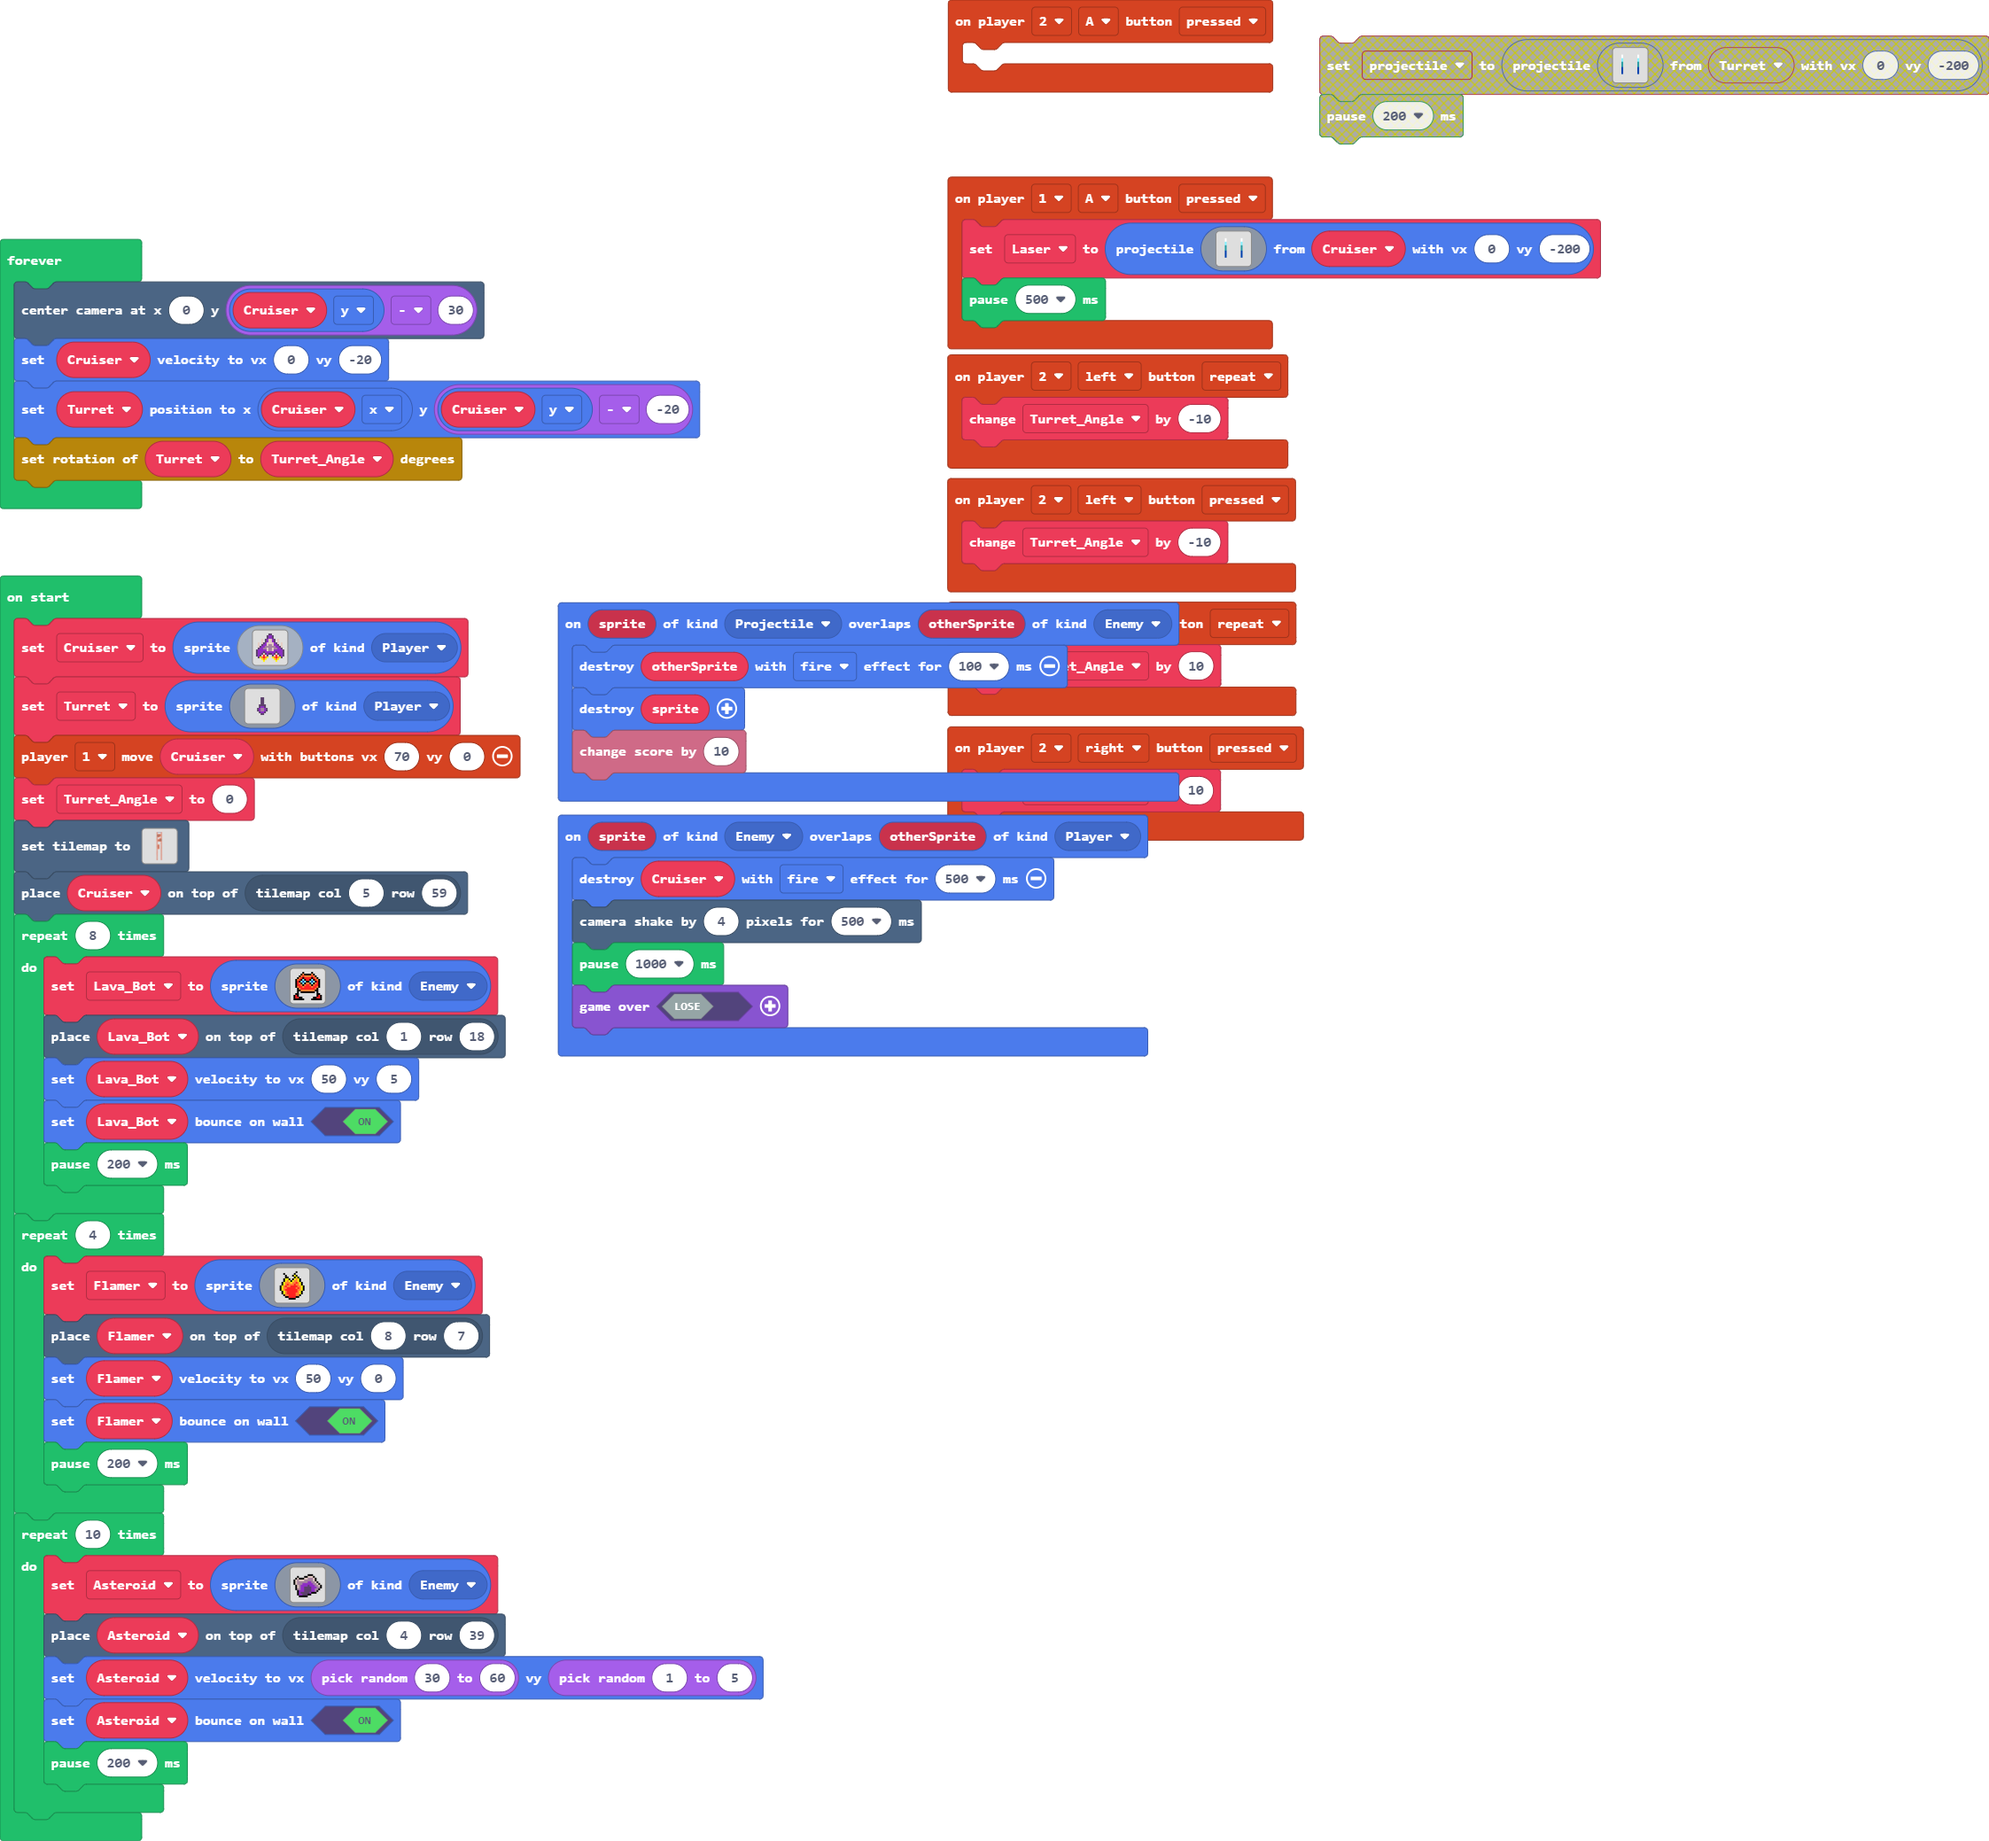
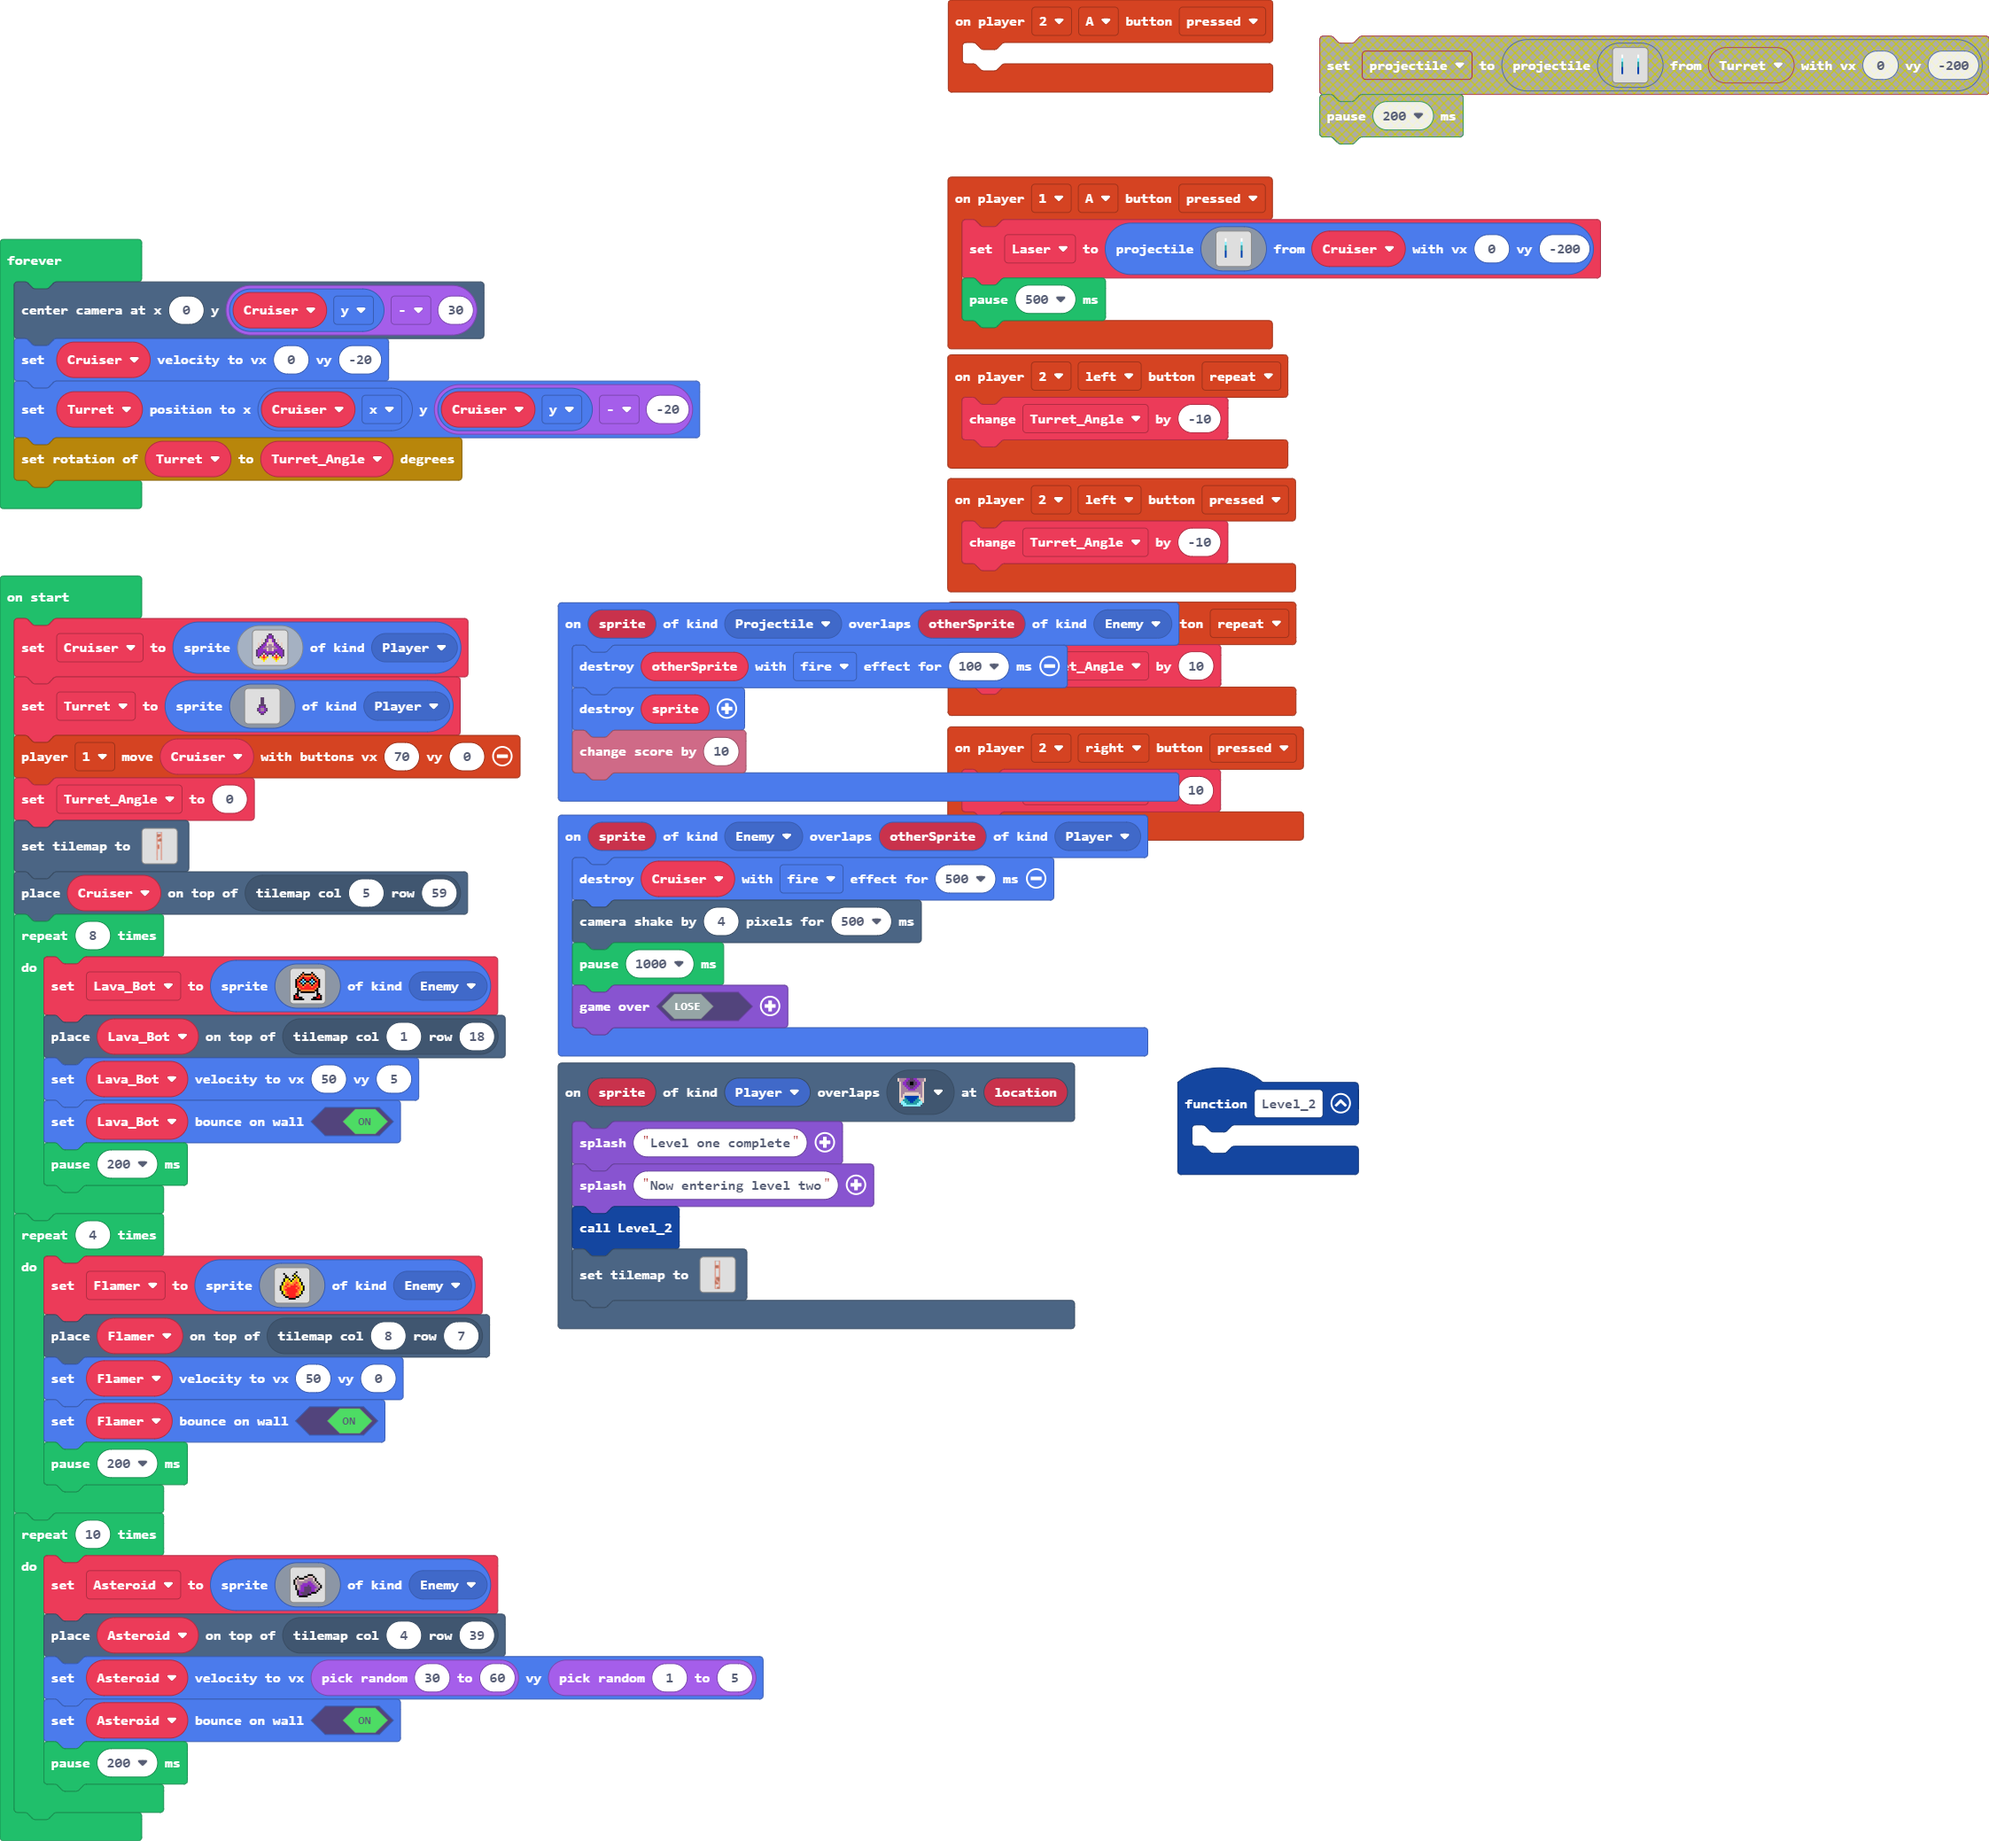
Update main.blocks, main.ts, tilemap.g.jres, tilemap.g.ts

Changed region(s): [[0.2806, 0.5544, 0.5612, 0.7392], [0.5924, 0.5544, 0.686, 0.6468]]

diff --git a/tilemap.g.ts b/tilemap.g.ts
@@ -38,6 +38,8 @@ namespace myTiles {
     export const tile17 = image.ofBuffer(hex``);
     //% fixedInstance jres blockIdentity=images._tile
     export const tile18 = image.ofBuffer(hex``);
+    //% fixedInstance jres blockIdentity=images._tile
+    export const tile19 = image.ofBuffer(hex``);
 
     helpers._registerFactory("tilemap", function(name: string) {
         switch(helpers.stringTrim(name)) {
@@ -104,6 +106,69 @@ namespace myTiles {
 ..........
 ..........
 `, [myTiles.transparency16,myTiles.tile1,myTiles.tile3,myTiles.tile4,myTiles.tile5,myTiles.tile6,myTiles.tile7,myTiles.tile2,myTiles.tile8,myTiles.tile9,myTiles.tile10,myTiles.tile11,myTiles.tile12,myTiles.tile13,myTiles.tile14,myTiles.tile15,myTiles.tile16,myTiles.tile17,myTiles.tile18], TileScale.Sixteen);
+            case "level2":
[1 lines of base64/hex data omitted]
+..........
+..........
+..........
+..........
+..........
+..........
+..........
+..........
+..........
+..........
+..........
+..........
+..........
+..........
+..........
+..........
+..........
+..........
+..........
+..........
+..........
+..........
+..........
+..........
+..........
+..........
+..........
+..........
+..........
+..........
+..........
+..........
+..........
+..........
+..........
+..........
+..........
+..........
+..........
+..........
+..........
+..........
+..........
+..........
+..........
+..........
+..........
+..........
+..........
+..........
+..........
+..........
+..........
+..........
+..........
+..........
+..........
+..........
+..........
+..........
+`, [myTiles.transparency16,myTiles.tile1,myTiles.tile3,myTiles.tile4,myTiles.tile5,myTiles.tile6,myTiles.tile7,myTiles.tile2,myTiles.tile8,myTiles.tile9,myTiles.tile10,myTiles.tile11,myTiles.tile12,myTiles.tile13,myTiles.tile14,myTiles.tile15,myTiles.tile16,myTiles.tile17,myTiles.tile19], TileScale.Sixteen);
         }
         return null;
     })
@@ -147,6 +212,8 @@ namespace myTiles {
             case "tile17":return tile17;
             case "myTile16":
             case "tile18":return tile18;
+            case "myTile17":
+            case "tile19":return tile19;
         }
         return null;
     })

diff --git a/main.ts b/main.ts
@@ -1,6 +1,12 @@
 controller.player2.onButtonEvent(ControllerButton.A, ControllerButtonEvent.Pressed, function () {
 	
 })
+scene.onOverlapTile(SpriteKind.Player, assets.tile`myTile16`, function (sprite, location) {
+    game.splash("Level one complete")
+    game.splash("Now entering level two")
+    Level_2()
+    tiles.setTilemap(tilemap`level2`)
+})
 controller.player2.onButtonEvent(ControllerButton.Right, ControllerButtonEvent.Pressed, function () {
     Turret_Angle += 10
 })
@@ -40,6 +46,9 @@ controller.player1.onButtonEvent(ControllerButton.A, ControllerButtonEvent.Press
 controller.player2.onButtonEvent(ControllerButton.Right, ControllerButtonEvent.Repeated, function () {
     Turret_Angle += 10
 })
+function Level_2 () {
+	
+}
 sprites.onOverlap(SpriteKind.Projectile, SpriteKind.Enemy, function (sprite, otherSprite) {
     otherSprite.destroy(effects.fire, 100)
     sprite.destroy()
